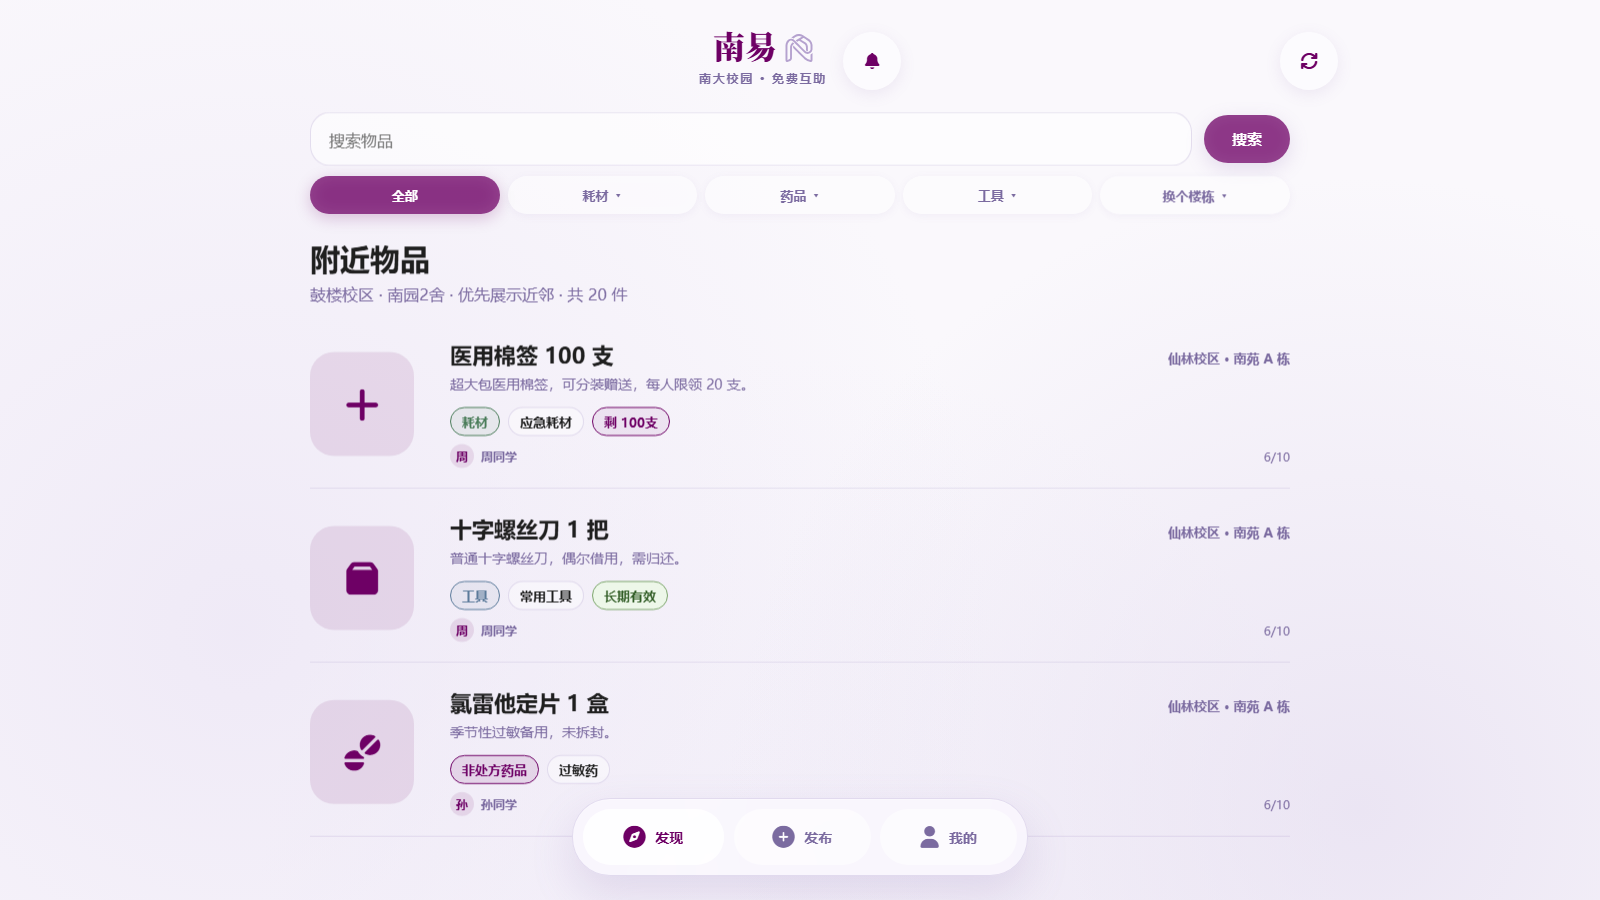
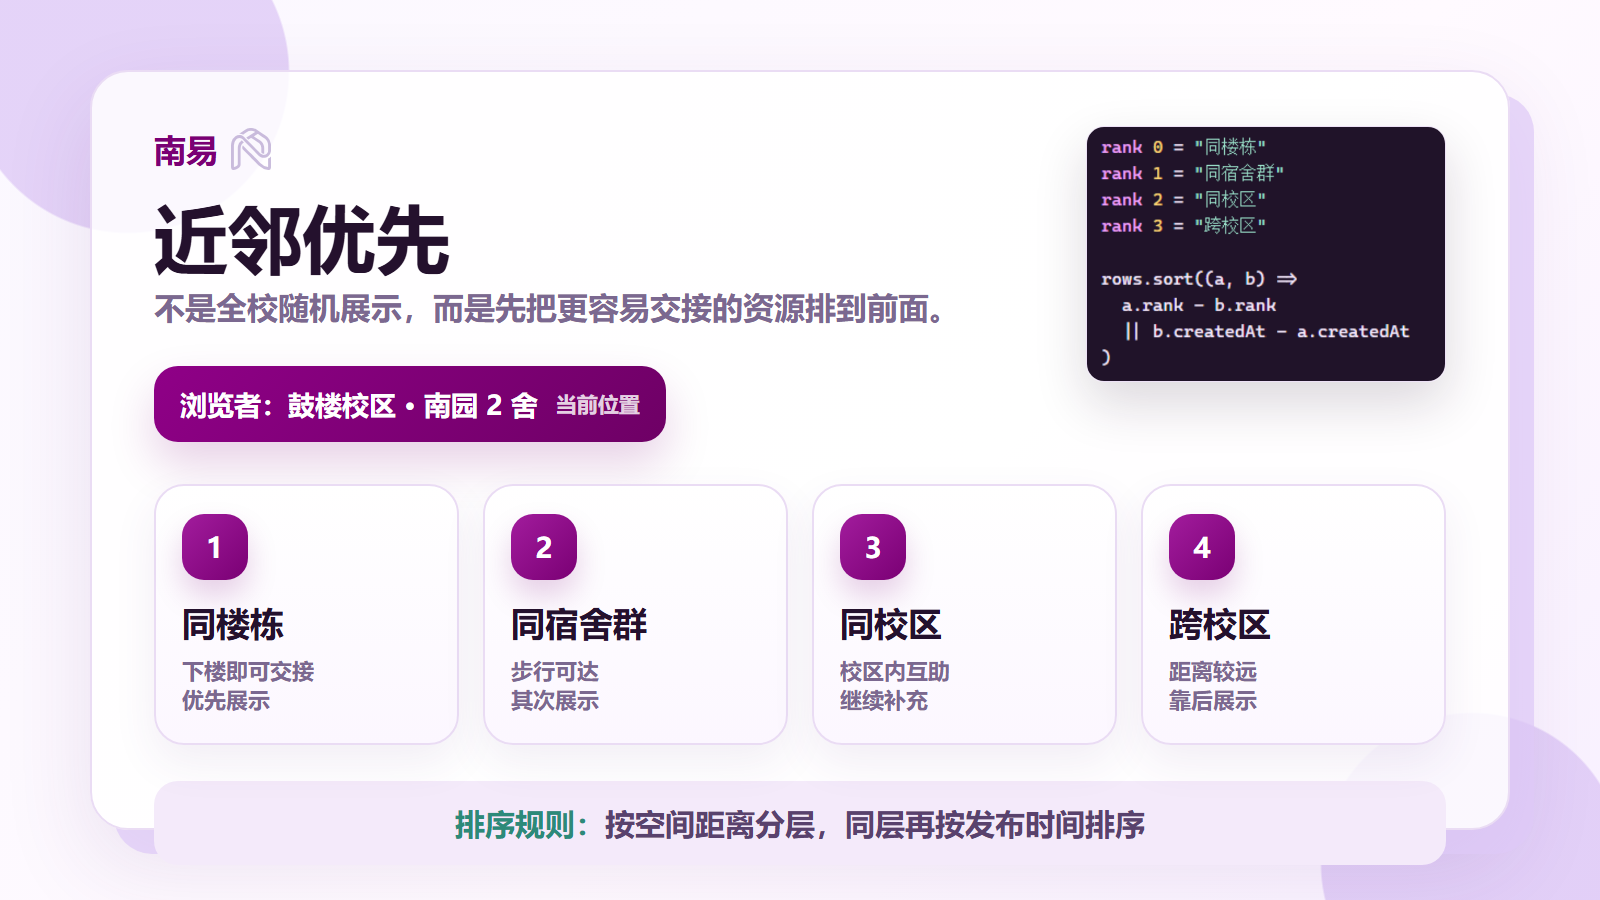
docs: simplify nearby priority principle image

diff --git a/docs/showcase/principles/nearby-priority-desktop.html b/docs/showcase/principles/nearby-priority-desktop.html
@@ -1,0 +1,212 @@
+<!doctype html>
+<html lang="zh-CN">
+<head>
+  <meta charset="utf-8">
+  <meta name="viewport" content="width=device-width, initial-scale=1">
+  <title>NanE 近邻优先简图</title>
+  <style>
+    :root {
+      --bg: #fbf8ff;
+      --ink: #24112d;
+      --muted: #7b6890;
+      --purple: #7a0074;
+      --line: #eadcf4;
+      --soft: #f4eafa;
+      --mint: #2c8a79;
+    }
+
+    * { box-sizing: border-box; }
+
+    body {
+      margin: 0;
+      width: 1600px;
+      height: 900px;
+      overflow: hidden;
+      font-family: -apple-system, BlinkMacSystemFont, "PingFang SC", "Microsoft YaHei", sans-serif;
+      color: var(--ink);
+      background:
+        radial-gradient(circle at 8% 8%, rgba(222, 201, 246, 0.78) 0 160px, transparent 162px),
+        radial-gradient(circle at 92% 96%, rgba(222, 201, 246, 0.84) 0 150px, transparent 152px),
+        linear-gradient(135deg, #fbf8ff 0%, #fffaff 58%, #f8f0ff 100%);
+    }
+
+    .page {
+      width: 1600px;
+      height: 900px;
+      padding: 70px 90px;
+    }
+
+    .panel {
+      position: relative;
+      width: 100%;
+      height: 100%;
+      padding: 56px 62px;
+      border: 2px solid var(--line);
+      border-radius: 38px;
+      background: rgba(255, 255, 255, 0.84);
+      box-shadow: 24px 24px 0 rgba(222, 201, 246, 0.72), 0 34px 90px rgba(93, 45, 125, 0.12);
+    }
+
+    .code-shot {
+      position: absolute;
+      top: 54px;
+      right: 62px;
+      width: 360px;
+      border-radius: 18px;
+      border: 1px solid rgba(234, 220, 244, 0.86);
+      box-shadow: 0 22px 52px rgba(36, 17, 45, 0.16);
+    }
+
+    .brand {
+      display: flex;
+      align-items: center;
+      gap: 12px;
+      color: var(--purple);
+      font-size: 32px;
+      font-weight: 950;
+    }
+
+    .brand img {
+      width: 42px;
+      height: 42px;
+      object-fit: contain;
+      opacity: 0.7;
+    }
+
+    h1 {
+      margin: 28px 0 10px;
+      color: var(--ink);
+      font-size: 74px;
+      line-height: 1.05;
+      letter-spacing: 0;
+      font-weight: 950;
+    }
+
+    .lead {
+      margin: 0;
+      color: var(--muted);
+      font-size: 31px;
+      line-height: 1.35;
+      font-weight: 780;
+    }
+
+    .viewer {
+      margin-top: 38px;
+      display: inline-flex;
+      align-items: center;
+      gap: 18px;
+      padding: 20px 26px;
+      border-radius: 24px;
+      color: #fff;
+      background: linear-gradient(135deg, #8f0087, #6e0065);
+      box-shadow: 0 22px 46px rgba(122, 0, 116, 0.18);
+      font-size: 27px;
+      font-weight: 950;
+    }
+
+    .viewer span {
+      color: rgba(255,255,255,0.82);
+      font-size: 21px;
+      font-weight: 820;
+    }
+
+    .steps {
+      margin-top: 42px;
+      display: grid;
+      grid-template-columns: repeat(4, 1fr);
+      gap: 24px;
+    }
+
+    .step {
+      min-height: 245px;
+      padding: 28px 26px;
+      border: 2px solid var(--line);
+      border-radius: 30px;
+      background: linear-gradient(180deg, #fff 0%, #fcf7ff 100%);
+      box-shadow: 0 18px 44px rgba(93, 45, 125, 0.08);
+    }
+
+    .rank {
+      width: 66px;
+      height: 66px;
+      margin-bottom: 24px;
+      border-radius: 22px;
+      display: grid;
+      place-items: center;
+      color: #fff;
+      background: linear-gradient(135deg, #a21c9d, #7a0074);
+      box-shadow: 0 16px 30px rgba(122, 0, 116, 0.18);
+      font-size: 28px;
+      font-weight: 950;
+    }
+
+    .step strong {
+      display: block;
+      color: var(--ink);
+      font-size: 34px;
+      line-height: 1.12;
+      margin-bottom: 14px;
+      font-weight: 950;
+    }
+
+    .step p {
+      margin: 0;
+      color: var(--muted);
+      font-size: 22px;
+      line-height: 1.35;
+      font-weight: 780;
+    }
+
+    .rule {
+      margin-top: 36px;
+      padding: 22px 28px;
+      border-radius: 24px;
+      background: var(--soft);
+      color: #59426d;
+      font-size: 30px;
+      font-weight: 900;
+      text-align: center;
+    }
+
+    .rule b {
+      color: var(--mint);
+    }
+  </style>
+</head>
+<body>
+  <main class="page">
+    <section class="panel">
+      <img class="code-shot" src="nearby-priority-code-snippet.png" alt="近邻优先排序代码截图">
+      <div class="brand">南易 <img src="../../../web/NanE-logo.svg" alt=""></div>
+      <h1>近邻优先</h1>
+      <p class="lead">不是全校随机展示，而是先把更容易交接的资源排到前面。</p>
+      <div class="viewer">浏览者：鼓楼校区 · 南园 2 舍 <span>当前位置</span></div>
+
+      <div class="steps" aria-label="近邻优先排序">
+        <div class="step">
+          <div class="rank">1</div>
+          <strong>同楼栋</strong>
+          <p>下楼即可交接<br>优先展示</p>
+        </div>
+        <div class="step">
+          <div class="rank">2</div>
+          <strong>同宿舍群</strong>
+          <p>步行可达<br>其次展示</p>
+        </div>
+        <div class="step">
+          <div class="rank">3</div>
+          <strong>同校区</strong>
+          <p>校区内互助<br>继续补充</p>
+        </div>
+        <div class="step">
+          <div class="rank">4</div>
+          <strong>跨校区</strong>
+          <p>距离较远<br>靠后展示</p>
+        </div>
+      </div>
+
+      <div class="rule"><b>排序规则：</b>按空间距离分层，同层再按发布时间排序</div>
+    </section>
+  </main>
+</body>
+</html>
